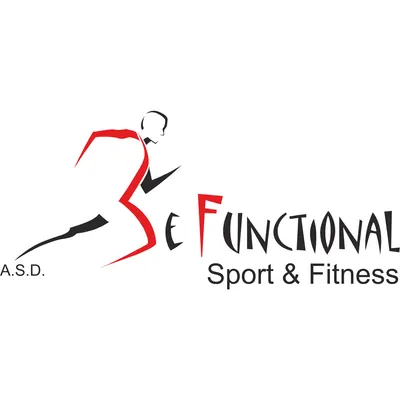
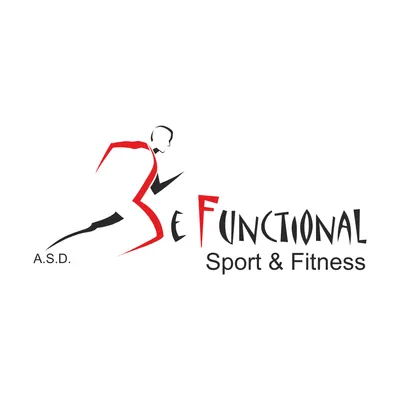
Sponsor: margine anche per le immagini da adattare (BeFunctional non più tagliato)

Changed region(s): [[0.0, 0.27, 1.0, 0.72]]

diff --git a/docs/05-DECISIONI.md b/docs/05-DECISIONI.md
@@ -133,7 +133,7 @@ Questo file **ha la precedenza** sugli altri documenti. Aggiornarlo a ogni nuova
 | D127 | **Home più compatta**, perché sotto le sezioni si veda almeno in parte la prima riga degli sponsor: porcino 96 px (era 116), riquadri alti almeno 84 px (erano 104) con meno spazio dentro e tra l'uno e l'altro, sponsor più vicini. Su un telefono 375×812 la tabella degli sponsor parte a ~600 px. | |
 | D128 | **Minigiochi: tentativi in un pallino** in alto a destra sul riquadro del gioco (appena fuori dal bordo), con solo "2/3"; rosso a 0/3. Niente pallino con tentativi illimitati o giochi chiusi/non ancora aperti/spenti. Riquadri dei giochi più vicini. "Il tuo migliore" diventa **"Il tuo record"** (elenco e fine partita). Home: testi dei riquadri più brevi. | |
 | D129 | **Sponsor grandi**: il nome del file finisce con `-grande` (es. `1-vit-grande.png`). Occupano più riquadri secondo la forma dell'originale: quadrato 2×2, largo (≥ 1,4:1) 2 colonne, alto 2 righe; con 1 sola colonna restano 1×1. Gli altri riempiono i buchi nell'ordine (il 2 va accanto al primo grande); se un grande non entra nella riga, lo sponsor dopo di lui può prendere il posto libero prima. Lo script scrive la forma in `app/src/assets/sponsor/sponsors.json`; i grandi fino a 600 px di lato. | Priorità maggiore per alcuni sponsor. Esempi rinumerati da 2 a 13; `6-esempio-grande` mostra un grande largo. |
-| D130 | **Sponsor: tutte le caselle piene, niente tagli**. `npm run sponsor-images` porta ogni immagine alla proporzione esatta del suo riquadro (1:1; i grandi 2:1 o 1:2) aggiungendo sfondo ai lati che mancano: il colore degli angoli se l'originale ha uno sfondo pieno; se è trasparente bianco (quasi nero solo se il logo è tutto chiaro, senza contorni o scritte scure), con un margine del 10% intorno; oppure uno scelto a mano in `BACKGROUNDS` nello script (Raffael: crema #FEF9ED del suo sito). Tra le caselle 6 px di spazio, ognuna col suo bordo sottile. | Supera la regola "intera se taglierebbe troppo" provata per Raffael. |
+| D130 | **Sponsor: tutte le caselle piene, niente tagli**. `npm run sponsor-images` porta ogni immagine alla proporzione esatta del suo riquadro (1:1; i grandi 2:1 o 1:2) aggiungendo sfondo ai lati che mancano: il colore degli angoli se l'originale ha uno sfondo pieno; se è trasparente bianco (quasi nero solo se il logo è tutto chiaro, senza contorni o scritte scure), con un margine del 10% intorno (il margine anche per ogni immagine con sfondo pieno da adattare alla casella, es. BeFunctional); oppure uno scelto a mano in `BACKGROUNDS` nello script (Raffael: crema #FEF9ED del suo sito). Tra le caselle 6 px di spazio, ognuna col suo bordo sottile. | Supera la regola "intera se taglierebbe troppo" provata per Raffael. |
 | D131 | **"Ti piace quest'app? Contattami per averne una tua"** in fondo alla home, piccolo: il link apre una nuova email a 1997giaquinto@gmail.com con oggetto "App Sagra del Porcino" (indirizzo in `app/src/config.js`, CONTACT_EMAIL). | Indirizzo visibile nel sito pubblico (scelta dell'utente). |
 | D35 | Il repository e il sito appartengono all'**organizzazione GitHub `OratorioTorchiati`** (gratuita), così l'indirizzo non mostra l'account personale: **https://oratoriotorchiati.github.io/sagra-porcino/**. | La radice `oratoriotorchiati.github.io` resta libera per futuri progetti dell'oratorio. |
 
